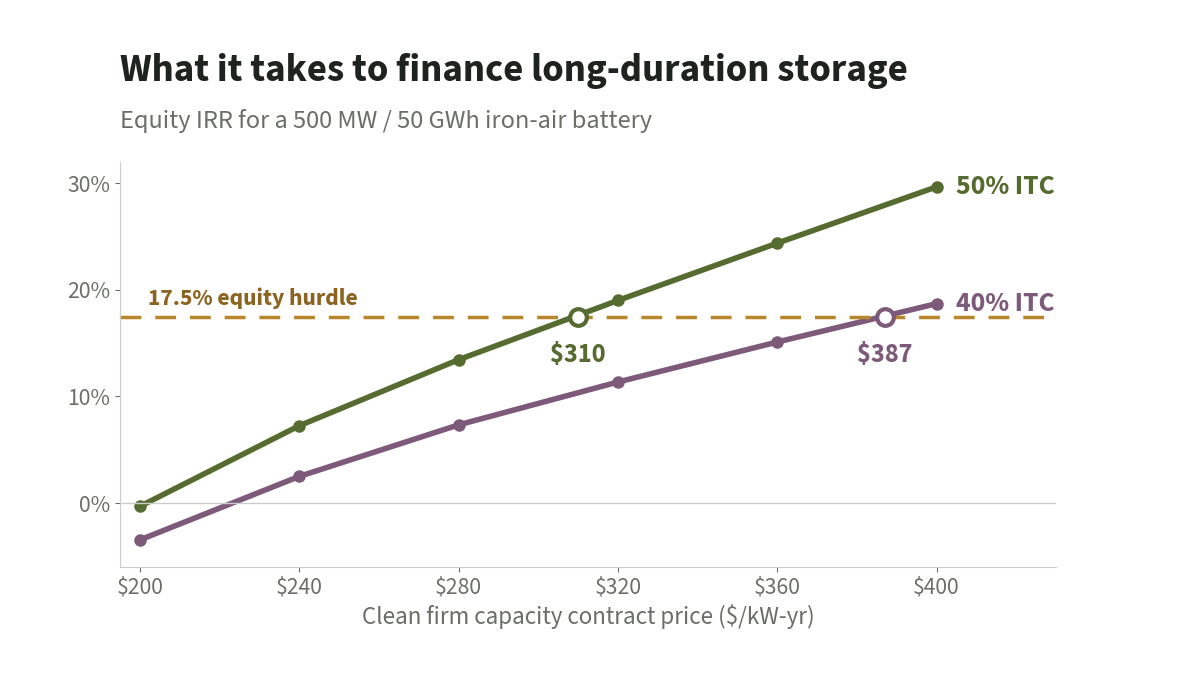
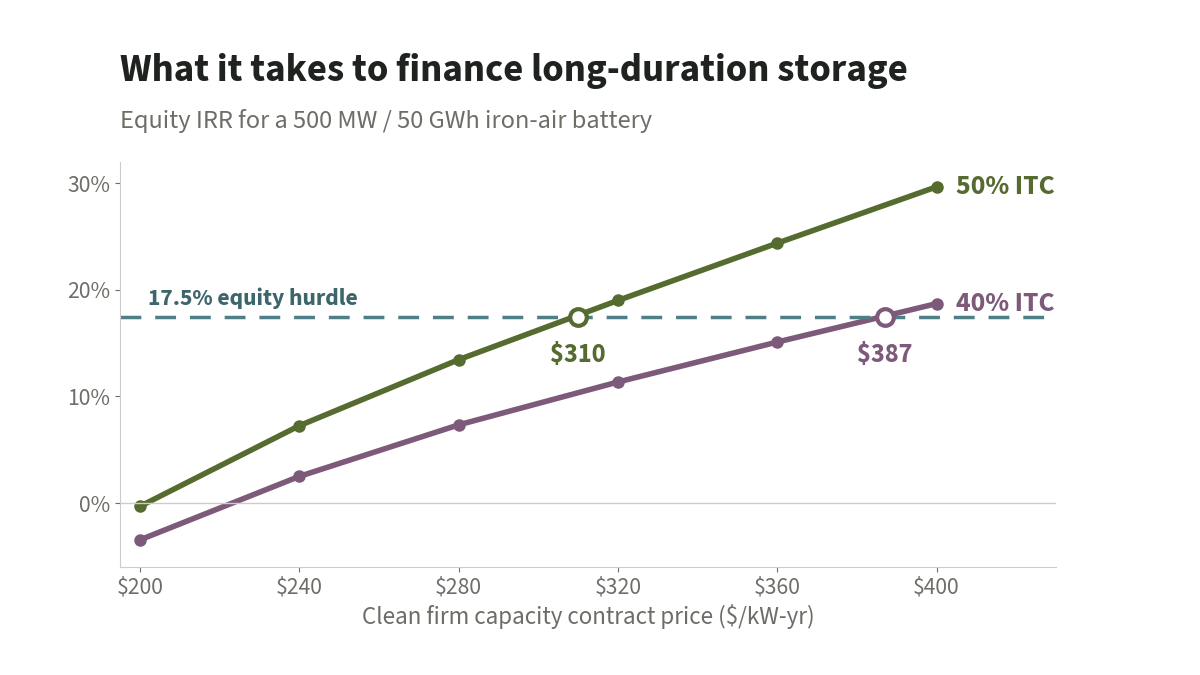
Switch accent color to dusty teal
Claude-Session: https://claude.ai/code/session_01WChvCnKWcNiMbhN5gWHHJU

Changed region(s): [[0.0925, 0.4356, 0.4625, 0.4978], [0.4933, 0.4667, 0.74, 0.4978], [0.7708, 0.4667, 0.8633, 0.4978]]

diff --git a/_sass/_themes.scss b/_sass/_themes.scss
@@ -1,6 +1,6 @@
 /*******************************************************************************
  * Local override of al_folio_core 1.0.15 _sass/_themes.scss
- * Changes: site palette "Olive & Mauve" with a warm ochre accent (#b8862b),
+ * Changes: site palette "Olive & Mauve" with a dusty teal accent (#4f7f86),
  *   plus a site design layer at the end of this file (serif headings, cards, links)
  *   and a warm off-white page background (#fbfaf6) in light mode
  *   olive #556b2f / light olive #a3b18a, mauve #7d5a7a / light mauve #d8bfd8
@@ -14,7 +14,7 @@
   color-scheme: light;
   --global-bg-color: #fbfaf6;
   --global-code-bg-color: rgba(85, 107, 47, 0.06);
-  --site-accent-color: #b8862b;
+  --site-accent-color: #4f7f86;
   --global-text-color: #{v.$black-color};
   --global-text-color-light: #{v.$grey-color};
   --global-theme-color: #556b2f;
@@ -88,7 +88,7 @@ html[data-theme="dark"] {
   --global-text-color: #{v.$grey-color-light};
   --global-text-color-light: #{v.$grey-color};
   --global-theme-color: #a3b18a;
-  --site-accent-color: #d9ab52;
+  --site-accent-color: #8fc0c6;
   --global-hover-color: #d8bfd8;
   --global-hover-text-color: #{v.$white-color};
   --global-footer-bg-color: #{v.$grey-color-light};
@@ -215,24 +215,24 @@ html[data-theme-setting="light"] {
   color: var(--global-theme-color);
 }
 
-/* ---- Site design layer: olive, mauve, and warm ochre ----
+/* ---- Site design layer: olive, mauve, and dusty teal ----
  * Selectors start with `html` so they outrank the gem's rules, which load after this file. */
 :root {
   --site-serif: "Source Serif 4", Georgia, "Times New Roman", serif;
-  --site-ochre-ink: #8a6420;
-  --site-warm-tint: #f5efe2;
+  --site-accent-ink: #3d666c;
+  --site-warm-tint: #edf3f2;
   --site-border: #e7e1d3;
   --site-shadow: 0 10px 24px rgba(70, 58, 25, 0.1);
 }
 html[data-theme="dark"] {
-  --site-ochre-ink: #d9ab52;
-  --site-warm-tint: rgba(217, 171, 82, 0.08);
+  --site-accent-ink: #8fc0c6;
+  --site-warm-tint: rgba(143, 192, 198, 0.08);
   --site-border: #3b3b3f;
   --site-shadow: 0 10px 24px rgba(0, 0, 0, 0.35);
 }
 
 ::selection {
-  background: rgba(184, 134, 43, 0.25);
+  background: rgba(79, 127, 134, 0.22);
 }
 
 /* Headings in a serif to pair with the body sans */
@@ -287,13 +287,13 @@ html #navbar .nav-link:hover {
   color: var(--global-theme-color) !important;
 }
 
-/* Links in running text: olive with an ochre underline */
+/* Links in running text: olive with a teal underline */
 html article p a,
 html article li a,
 html article td a,
 html .post-header a {
   text-decoration: underline;
-  text-decoration-color: rgba(184, 134, 43, 0.55);
+  text-decoration-color: rgba(79, 127, 134, 0.55);
   text-decoration-thickness: 1.5px;
   text-underline-offset: 3px;
 }
@@ -309,7 +309,7 @@ html article ul > li::marker {
   color: var(--site-accent-color);
 }
 html article ol > li::marker {
-  color: var(--site-ochre-ink);
+  color: var(--site-accent-ink);
   font-weight: 600;
 }
 
@@ -408,7 +408,7 @@ html article > .card .table td {
   background: transparent;
 }
 html article > .card .text-muted {
-  color: var(--site-ochre-ink) !important;
+  color: var(--site-accent-ink) !important;
   font-weight: 600;
 }
 html article .table-sm th {
@@ -474,7 +474,7 @@ html[data-theme="dark"] footer.sticky-bottom {
   color: #c9c9c9;
 }
 html footer a {
-  color: #e2c07a !important;
+  color: #a9d0d4 !important;
 }
 
 html .projects .card-title::after {
